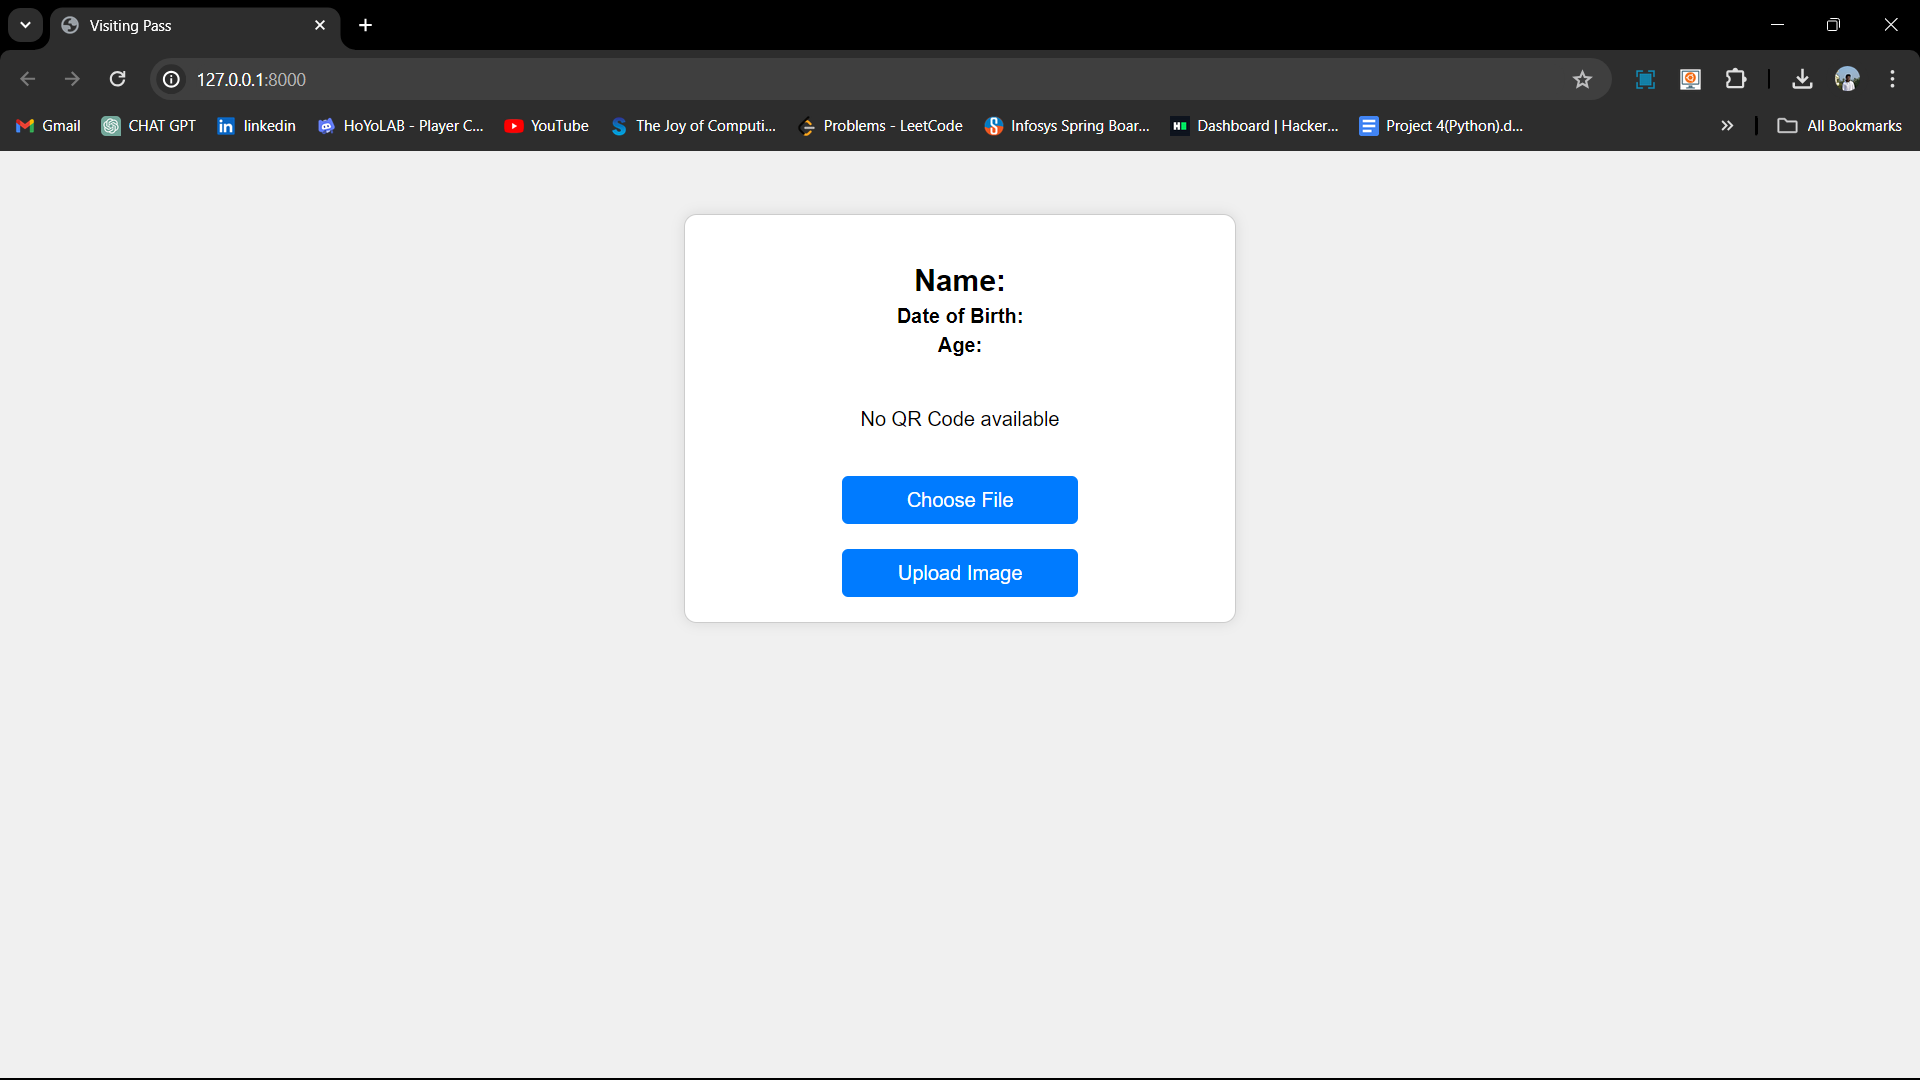
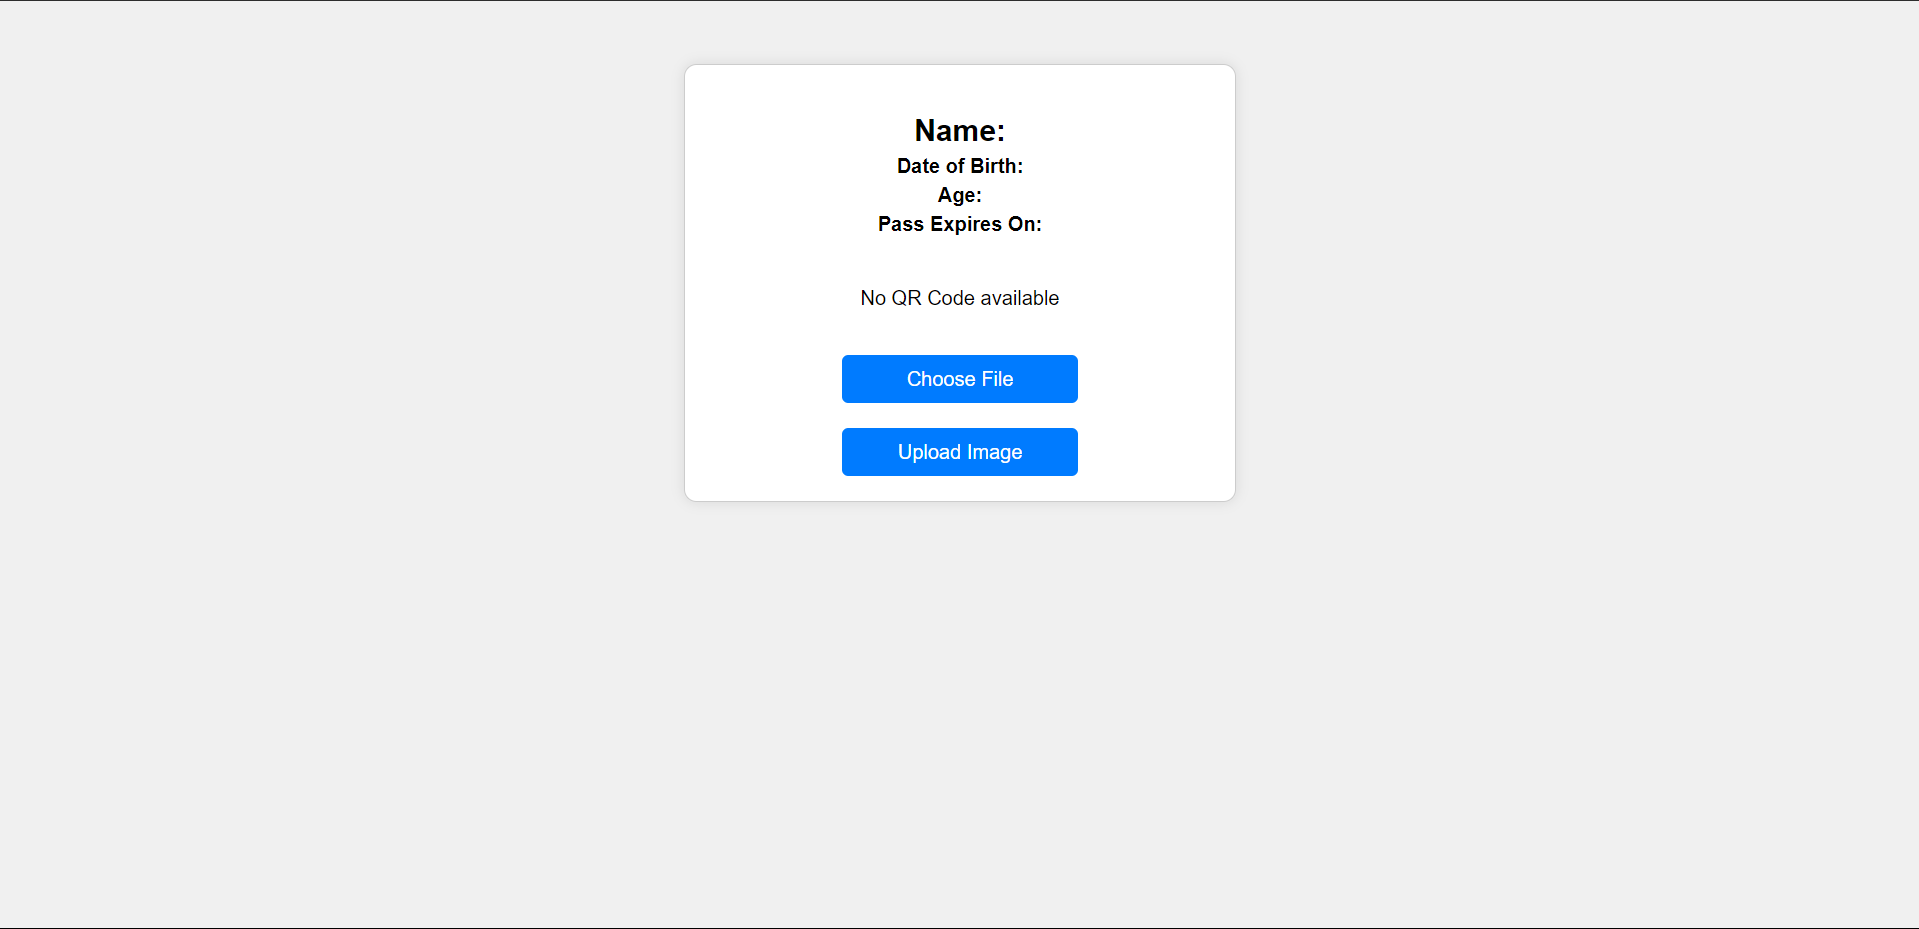
modified qr functionality to display all fields

Changed region(s): [[0.0, 0.0, 1.0, 0.3434], [0.3689, 0.3746, 0.6149, 0.5619]]

diff --git a/VisiOCR/templates/ocr_app/pdf_template.html b/VisiOCR/templates/ocr_app/pdf_template.html
@@ -88,6 +88,7 @@
             {% if aadhaar_number %}
             <strong>Aadhaar Number:</strong> {{ aadhaar_number }}</p>
             {% endif %}
+            <strong>Pass expires on:</strong> {{ expiry_date }}</p>
         </div>
     </div>
 </body>

diff --git a/VisiOCR/ocrapp/views.py b/VisiOCR/ocrapp/views.py
@@ -260,6 +260,7 @@ def download_pdf(request):
         'age': request.POST.get('age'),
         'pan_number': request.POST.get('pan_number'),
         'aadhaar_number': request.POST.get('aadhaar_number'),
+        'expiry_date' : request.POST.get('expiry_date')
     }
     response = HttpResponse(content_type='application/pdf')
     response['Content-Disposition'] = 'attachment; filename="visiting_pass.pdf"'
